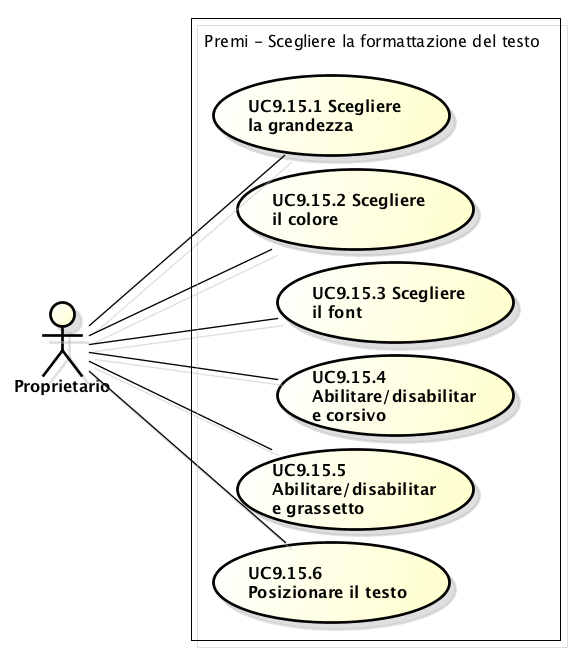
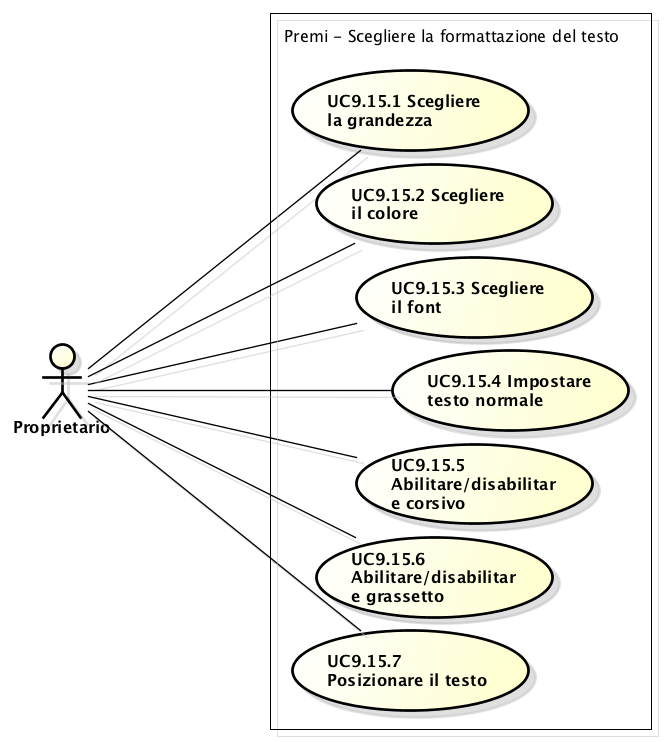
revisione documento. Corretti UC4*, UC6*, UC7*, UC9*.

Changed region(s): [[0.0, 0.0, 0.9846, 0.994], [0.2462, 0.6325, 0.2769, 0.6627]]

diff --git a/esterni/analisi_dei_requisiti/sections/tabella_requisiti_funzionali.tex b/esterni/analisi_dei_requisiti/sections/tabella_requisiti_funzionali.tex
@@ -62,20 +62,20 @@
 			\midrule
 
 			R[OBB][F]4.1 & Il sistema deve permettere all'utente l'apertura di una presentazione & UC4.1, Capitolato \\ \midrule
-			R[OBB][F]4.1.1 & Il sistema deve permettere all'utente autenticato la visualizzazione di una presentazione in modalità presentatore & UC4.1.1, Capitolato \\ \midrule
-			R[OBB][F]4.1.1.1 & Il sistema deve poter visualizzare la slide corrente per il presentatore & UC4.1.1 \\ \midrule
-			R[OBB][F]4.1.1.2 & Il sistema deve poter visualizzare le slide successive per il presentatore & UC4.1.1, Interna \\ \midrule
-			R[OBB][F]4.1.1.3 & Il sistema deve poter visualizzare le note della slide per il presentatore & UC4.1.1, Interna \\ \midrule
-			R[OBB][F]4.1.1.4 & Il sistema deve poter visualizzare il tempo trascorso per il presentatore & UC4.1.1, Interna \\ \midrule
-			R[OBB][F]4.1.2 & Il sistema deve permettere all'utente autenticato la visualizzazione di una presentazione in modalità ascoltatore & UC4.1.2, Capitolato \\ \midrule
-			R[OBB][F]4.1.2.1 & Il sistema deve poter visualizzare la slide corrente per l'ascoltatore & UC4.1.2, Interna \\ \midrule
-			R[OBB][F]4.1.3 & Il sistema deve poter visualizzare i comandi di navigazione per l'ascoltatore & UC4.1.3, Interna \\ \midrule
+			R[OBB][F]4.1.1 & Il sistema deve permettere all'utente autenticato la visualizzazione di una presentazione in modalità presentatore & UC4.3, Capitolato \\ \midrule
+			R[OBB][F]4.1.1.1 & Il sistema deve poter visualizzare la slide corrente per il presentatore & UC4.3 \\ \midrule
+			R[OBB][F]4.1.1.2 & Il sistema deve poter visualizzare le slide successive per il presentatore & UC4.3, Interna \\ \midrule
+			R[OBB][F]4.1.1.3 & Il sistema deve poter visualizzare le note della slide per il presentatore & UC4.3, Interna \\ \midrule
+			R[OBB][F]4.1.1.4 & Il sistema deve poter visualizzare il tempo trascorso per il presentatore & UC4.3, Interna \\ \midrule
+			R[OBB][F]4.1.2 & Il sistema deve permettere all'utente autenticato la visualizzazione di una presentazione in modalità ascoltatore & UC4.4, Capitolato \\ \midrule
+			R[OBB][F]4.1.2.1 & Il sistema deve poter visualizzare la slide corrente per l'ascoltatore & UC4.4, Interna \\ \midrule
+			R[OBB][F]4.1.3 & Il sistema deve poter visualizzare i comandi di navigazione per l'ascoltatore & UC4.1.1, Interna \\ \midrule
 			R[OPZ][F]4.2 & Il sistema deve permettere all'utente la visualizzazione di un'\gls{infografica} & UC4.2, Verbale4 \\ \midrule
 			R[OBB][F]5 & Il sistema deve permettere all'utente di generare il PDF del progetto & UC5, Capitolato \\ \midrule
 			R[OBB][F]5.1 & Il sistema deve permettere all'utente di generare il PDF della presentazione & UC5.1, Capitolato \\ \midrule
 			R[OBB][F]5.2 & Il sistema deve permettere all'utente di generare il PDF dell'\gls{infografica} & UC5.2, Verbale4, Interna \\ \midrule
 			R[OBB][F]6 & L'utente deve poter esportare un pacchetto stand-alone per la visualizzazione offline & UC6 \\ \midrule
-			R[OBB][F]6.1 & L'utente deve poter scegliere il percorso per il salvataggio del pacchetto & UC6.2 \\ \midrule
+			R[OBB][F]6.1 & L'utente deve poter scegliere il percorso per il salvataggio del pacchetto & UC6.1 \\ \midrule
 			R[OBB][F]7 & L'utente deve poter creare un nuovo progetto & UC7, Capitolato \\ \midrule
 			R[OBB][F]7.1 & L'utente deve poter inserire il titolo del progetto & UC7.1, Capitolato \\ \midrule
 
@@ -151,9 +151,10 @@
 			R[OBB][F]9.15.1 & Il proprietario deve poter cambiare la grandezza del testo & UC9.15.1, Capitolato, Verbale2 \\ \midrule
 			R[OBB][F]9.15.2 & Il proprietario deve poter cambiare il colore del testo & UC9.15.2, Capitolato, Verbale2 \\ \midrule
 			R[OBB][F]9.15.3 & Il proprietario deve poter cambiare il \gls{font} del testo & UC9.15.3, Capitolato, Verbale2 \\ \midrule
-			R[OBB][F]9.15.4 & Il proprietario deve poter abilitare/disabilitare il corsivo del testo & UC9.15.4, Capitolato, Verbale2 \\ \midrule
-			R[OBB][F]9.15.5 & Il proprietario deve poter abilitare/disabilitare il grassetto del testo & UC9.15.5, Capitolato, Verbale2 \\ \midrule
-			R[OBB][F]9.15.6 & Il proprietario deve poter cambiare la posizione del testo all'interno della \gls{slide} & UC9.15.6, Capitolato, Verbale2 \\ \midrule
+			R[OBB][F]9.15.4 & Il proprietario deve poter impostare lo stile del testo normale & UC9.15.4, Capitolato, Verbale2 \\ \midrule
+			R[OBB][F]9.15.5 & Il proprietario deve poter impostare lo stile del testo corsivo & UC9.15.5, Capitolato, Verbale2 \\ \midrule
+			R[OBB][F]9.15.6 & Il proprietario deve poter impostare lo stile del testo grassetto & UC9.15.6, Capitolato, Verbale2 \\ \midrule
+			R[OBB][F]9.15.7 & Il proprietario deve poter cambiare la posizione del testo all'interno della \gls{slide} & UC9.15.7, Capitolato, Verbale2 \\ \midrule
 			R[OBB][F]9.16 & Il proprietario deve poter modificare una tabella & UC9.16 \\ \midrule
 			R[OBB][F]9.16.1 & Il proprietario deve poter cambiare il contenuto di una cella della tabella & UC9.16.1 \\ \midrule
 			R[OBB][F]9.16.2 & Il proprietario deve poter aggiungere righe alla tabella & UC9.16.2 \\ \midrule

diff --git a/esterni/analisi_dei_requisiti/sections/casi_d_uso_4.tex b/esterni/analisi_dei_requisiti/sections/casi_d_uso_4.tex
@@ -1,7 +1,7 @@
 \subsection{Caso d'uso UC4: Visualizzazione}
 \begin{figure}[h] 
 	\centering 
-	\includegraphics[scale=0.45] {img/UC4.png}
+	\includegraphics[width=0.7\textwidth] {img/UC4.png}
 	\caption{UC4 - Visualizzazione} 
 \end{figure}
 
@@ -12,18 +12,14 @@
 	\item \textbf{Flusso principale degli eventi:}
 	\begin{enumerate}
 		\item L'utente sceglie di visualizzare una presentazione [UC4.1];
-		\item L'utente sceglie di visualizzare un'\gls{infografica} [UC4.2].
+		\item L'utente sceglie di visualizzare un'\gls{infografica} [UC4.2];
+		\item L'utente sceglie di visualizzare la presentazione come presentatore [UC4.3];
+		\item L'utente sceglie di visualizzare la presentazione come ascoltatore [UC4.4].
 	\end{enumerate}
 	\item \textbf{Postcondizione:} Il sistema mostra all'utente la schermata di visualizzazione di una presentazione o di un'\gls{infografica} a seconda di cosa è stato scelto.
 \end{itemize}
 
 \subsection{Caso d'uso UC4.1: Visualizzazione di una presentazione}
-\begin{figure}[h] 
-	\centering 
-	\includegraphics[scale=0.45] {img/UC4.1.png}
-	\caption{UC4.1 - Visualizzazione di una presentazione} 
-\end{figure}
-
 \begin{itemize}
 	\item \textbf{Attori:} Utente non autenticato, utente autenticato;
 	\item \textbf{Scopo e descrizione:} La visualizzazione di una presentazione permette di scorrere le \gls{slide}. In generale, la presentazione segue un flusso principale, da sinistra a destra, e un flusso secondario, dall'alto verso il basso.\\
@@ -32,30 +28,12 @@
 	\item \textbf{Precondizione:} L'utente ha scelto di visualizzare una presentazione esistente;
 	\item \textbf{Flusso principale degli eventi:}
 	\begin{enumerate}
-		\item L'utente sceglie di visualizzare la presentazione come presentatore [UC4.1.1];
-		\item L'utente sceglie di visualizzare la presentazione come ascoltatore [UC4.1.2];
-		\item L'utente si sposta tra le \gls{slide} [UC4.1.3];
+		\item L'utente si sposta tra le \gls{slide} [UC4.1.1];
 	\end{enumerate}
 	\item \textbf{Postcondizione:} Il sistema mostra all'utente la schermata di visualizzazione di una presentazione con le impostazioni scelte.
 \end{itemize}
 
-\subsection{Caso d'uso UC4.1.1: Visualizzare una presentazione come presentatore}
-\begin{itemize}
-	\item \textbf{Attori:} Utente non autenticato, utente autenticato;
-	\item \textbf{Scopo e descrizione:} L'utente ha scelto di visualizzare la presentazione come presentatore e il sistema mostra la presentazione con il supporto visivo dedicato al presentatore;
-	\item \textbf{Precondizione:} L'utente ha scelto di visualizzare la presentazione come presentatore;
-	\item \textbf{Postcondizione:} Il sistema avvia la presentazione con il supporto visivo dedicato al presentatore.
-\end{itemize}
-
-\subsection{Caso d'uso UC4.1.2: Visualizzare una presentazione come ascoltatore}
-\begin{itemize}
-	\item \textbf{Attori:} Utente non autenticato, utente autenticato;
-	\item \textbf{Scopo e descrizione:} L'utente ha scelto di visualizzare la presentazione come ascoltatore e il sistema mostra la presentazione selezionata;
-	\item \textbf{Precondizione:} L'utente ha scelto di visualizzare la presentazione come ascoltatore;
-	\item \textbf{Postcondizione:} Il sistema avvia la presentazione.
-\end{itemize}
-
-\subsection{Caso d'uso UC4.1.3: Spostarsi tra le slide}
+\subsection{Caso d'uso UC4.1.1: Spostarsi tra le slide}
 \begin{itemize}
 	\item \textbf{Attori:} Utente non autenticato, utente autenticato;
 	\item \textbf{Scopo e descrizione:} L'utente sta visualizzando una presentazione e vuole cambiare \gls{slide}. Si può muovere nella quattro direzioni così da procedere sia nel flusso principale che in quello secondario;
@@ -72,3 +50,20 @@
 	\item \textbf{Postcondizione:} Il sistema mostra all'utente la schermata di visualizzazione dell'\gls{infografica}.
 \end{itemize}
 
+
+\subsection{Caso d'uso UC4.3: Visualizzare una presentazione come presentatore}
+\begin{itemize}
+	\item \textbf{Attori:} Utente non autenticato, utente autenticato;
+	\item \textbf{Scopo e descrizione:} L'utente ha scelto di visualizzare la presentazione come presentatore e il sistema mostra la presentazione con il supporto visivo dedicato al presentatore;
+	\item \textbf{Precondizione:} L'utente ha scelto di visualizzare la presentazione come presentatore;
+	\item \textbf{Postcondizione:} Il sistema avvia la presentazione con il supporto visivo dedicato al presentatore.
+\end{itemize}
+
+
+\subsection{Caso d'uso UC4.4: Visualizzare una presentazione come ascoltatore}
+\begin{itemize}
+	\item \textbf{Attori:} Utente non autenticato, utente autenticato;
+	\item \textbf{Scopo e descrizione:} L'utente ha scelto di visualizzare la presentazione come ascoltatore e il sistema mostra la presentazione selezionata;
+	\item \textbf{Precondizione:} L'utente ha scelto di visualizzare la presentazione come ascoltatore;
+	\item \textbf{Postcondizione:} Il sistema avvia la presentazione.
+\end{itemize}

diff --git a/esterni/analisi_dei_requisiti/sections/casi_d_uso_9.tex b/esterni/analisi_dei_requisiti/sections/casi_d_uso_9.tex
@@ -198,7 +198,7 @@
 	\subsection{Caso d'uso UC9.8.1: Scegliere la tipologia del grafico}
 	\begin{itemize}
 		\item \textbf{Attori:} Proprietario;
-		\item \textbf{Scopo e descrizione:} L'utente deve scegliere il tipo di grafico da inserire;
+		\item \textbf{Scopo e descrizione:} L'utente deve scegliere il tipo di grafico da inserire tra istogramma, torta e linea;
 		\item \textbf{Precondizione:} La finestra di dialogo per la scelta del tipo di grafico è aperta;
 		\item \textbf{Postcondizione:} Il sistema ha registrato la scelta dell'utente.
 	\end{itemize}
@@ -282,9 +282,10 @@
 		\item L'utente può cambiare la grandezza del testo [UC9.15.1];
 		\item L'utente può cambiare il colore del testo [UC9.15.2];
 		\item L'utente può cambiare il \gls{font} del testo [UC9.15.3];
-		\item L'utente può abilitare o disabilitare il testo in corsivo [UC9.15.4];
-		\item L'utente può abilitare o disabilitare il testo in grassetto [UC9.15.5];
-		\item L'utente può spostare il testo in una nuova posizione [UC9.15.6].
+		\item L'utente può impostare il testo normale [UC9.15.4];
+		\item L'utente può impostare il testo in corsivo [UC9.15.5];
+		\item L'utente può impostare il testo in grassetto [UC9.15.6];
+		\item L'utente può spostare il testo in una nuova posizione [UC9.15.7].
 	\end{enumerate}
 	\item \textbf{Postcondizione:} Il sistema ha apportato le modifiche scelte all'elemento di testo selezionato.
 \end{itemize}
@@ -313,29 +314,38 @@
 	\item \textbf{Postcondizione:} Il testo ha cambiato \gls{font} secondo la scelta dell'utente.
 \end{itemize}
 
-\subsection{Caso d'uso UC9.15.4: Abilitare/disabilitare corsivo}
+\subsection{Caso d'uso UC9.15.4: Impostare stile normale}
 \begin{itemize}
 	\item \textbf{Attori:} Proprietario;
-	\item \textbf{Scopo e descrizione:} L'utente può abilitare o disabilitare la scrittura in corsivo;
+	\item \textbf{Scopo e descrizione:} L'utente può impostare lo stile del testo normale;
 	\item \textbf{Precondizione:} Il testo da modificare è selezionato;
 	\item \textbf{Postcondizione:} Il testo è stato modificato secondo la scelta dell'utente.
 \end{itemize}
 
-\subsection{Caso d'uso UC9.15.5: Abilitare/Disabilitare grassetto}
+\subsection{Caso d'uso UC9.15.5: Impostare stile corsivo}
 \begin{itemize}
 	\item \textbf{Attori:} Proprietario;
-	\item \textbf{Scopo e descrizione:} L'utente può abilitare o disabilitare la scrittura in grassetto;
+	\item \textbf{Scopo e descrizione:} L'utente può impostare la scrittura in corsivo;
 	\item \textbf{Precondizione:} Il testo da modificare è selezionato;
 	\item \textbf{Postcondizione:} Il testo è stato modificato secondo la scelta dell'utente.
 \end{itemize}
 
-\subsection{Caso d'uso UC9.15.6: Posizionare il testo}
+\subsection{Caso d'uso UC9.15.6: Impostare stile grassetto}
+\begin{itemize}
+	\item \textbf{Attori:} Proprietario;
+	\item \textbf{Scopo e descrizione:} L'utente può impostare la scrittura in grassetto;
+	\item \textbf{Precondizione:} Il testo da modificare è selezionato;
+	\item \textbf{Postcondizione:} Il testo è stato modificato secondo la scelta dell'utente.
+\end{itemize}
+
+\subsection{Caso d'uso UC9.15.7: Posizionare il testo}
 \begin{itemize}
 	\item \textbf{Attori:} Proprietario;
 	\item \textbf{Scopo e descrizione:} L'utente può allineare il testo in una nuova posizione;
 	\item \textbf{Precondizione:} Il testo da modificare è selezionato;
 	\item \textbf{Postcondizione:} Il testo è stata allineato secondo la scelta dell'utente.
 \end{itemize}
+
 
 \newpage
 \subsection{Caso d'uso UC9.16: Modificare una tabella}

diff --git a/esterni/analisi_dei_requisiti/sections/casi_d_uso_6.tex b/esterni/analisi_dei_requisiti/sections/casi_d_uso_6.tex
@@ -11,23 +11,12 @@
 		\item \textbf{Precondizione:} Il sistema è in attesa che l'utente selezioni la funzione esporta;
 		\item \textbf{Flusso principale degli eventi:}
 		\begin{enumerate}
-			\item L'utente seleziona dal menù la funzione esporta [UC6.1];
-			\item L'utente salva il pacchetto in locale [UC6.2].
+			\item L'utente salva il pacchetto in locale [UC6.1].
 		\end{enumerate}
 		\item \textbf{Postcondizione:} L'utente ha esportato il progetto e l'ha salvato in locale.
 	\end{itemize}
 
-
-\subsection{Caso d'uso UC6.1: Selezionare la funzione esporta}
-	\begin{itemize}
-		\item \textbf{Attori:} Utente autenticato;
-		\item \textbf{Scopo e descrizione:} L'utente seleziona dall'apposito menù la funzione di esportazione per esportare il progetto;
-		\item \textbf{Precondizione:} L'utente ha un progetto aperto e il sistema è in attesa che l'utente selezioni la funzione esporta;
-		\item \textbf{Postcondizione:} Il sistema inizia la procedura di esportazione preparando il pacchetto.
-	\end{itemize}
-
-
-\subsection{Caso d'uso UC6.2: Salvataggio del pacchetto in locale}
+\subsection{Caso d'uso UC6.1: Salvataggio del pacchetto in locale}
 	\begin{itemize}
 		\item \textbf{Attori:} Utente autenticato;
 		\item \textbf{Scopo e descrizione:} L'utente deve salvare il pacchetto del progetto in locale per poterlo visualizzare in locale senza connessione a internet. Il pacchetto contiene la struttura del server e del programma necessaria per la visualizzazione corretta della presentazione e dell'\gls{infografica} anche in assenza della connessione diretta al server stesso.

diff --git a/esterni/analisi_dei_requisiti/sections/casi_d_uso_7.tex b/esterni/analisi_dei_requisiti/sections/casi_d_uso_7.tex
@@ -6,7 +6,7 @@
 \end{figure}
 
 \begin{itemize}
-	\item \textbf{Attori:} Utente autenticato, Proprietario;
+	\item \textbf{Attori:} Proprietario;
 	\item \textbf{Scopo e descrizione:} L'utente vuole creare un nuovo progetto. Ha la possibilità di decidere il titolo del progetto e il \gls{template} con cui crearlo. Successivamente passerà alla fase di modifica.
 	\item \textbf{Precondizione:} L'utente deve aver eseguito l'accesso al sistema;
 	\item \textbf{Flusso principale degli eventi:}
@@ -20,7 +20,7 @@
 
 \subsection{Caso d'uso UC7.1: Scegliere il titolo}
 \begin{itemize}
-	\item \textbf{Attori:} Utente autenticato, Proprietario;
+	\item \textbf{Attori:} Proprietario;
 	\item \textbf{Scopo e descrizione:} L'utente sceglie il titolo da dare al progetto;
 	\item \textbf{Precondizione:} L'utente ha deciso di creare un nuovo progetto;
 	\item \textbf{Postcondizione:} Il sistema registra il titolo inserito dall'utente.
@@ -29,7 +29,7 @@
 
 \subsection{Caso d'uso UC7.2: Scegliere un template}
 \begin{itemize}
-	\item \textbf{Attori:} Utente autenticato, Proprietario;
+	\item \textbf{Attori:} Proprietario;
 	\item \textbf{Scopo e descrizione:} L'utente sceglie un \gls{template} da utilizzare per il proprio progetto;
 	\item \textbf{Precondizione:} L'utente ha inserito il titolo del progetto;
 	\item \textbf{Postcondizione:} Il sistema crea una presentazione con il titolo e il \gls{template} scelti e entra nella modalità di modifica.

diff --git a/esterni/analisi_dei_requisiti/sections/tabella_tracciamento_fonti_requisiti.tex b/esterni/analisi_dei_requisiti/sections/tabella_tracciamento_fonti_requisiti.tex
@@ -47,10 +47,10 @@
 			UC3.3 & R[OBB][F]3.3 \\ \midrule
 			UC4 & R[OBB][F]4 \\ \midrule
 			UC4.1 & R[OBB][F]4.1 \\ \midrule
-			UC4.1.1 & R[OBB][F]4.1.1 ; R[OBB][F]4.1.1.1 ; R[OBB][F]4.1.1.2 ; R[OBB][F]4.1.1.3 ; R[OBB][F]4.1.1.4 ; R[OBB][F]4.1.1.5 \\ \midrule
-			UC4.1.2 & R[OBB][F]4.1.2 ; R[OBB][F]4.1.2.1 \\ \midrule
-			UC4.1.3 & R[OBB][F]4.1.3 \\ \midrule
+			UC4.1.1 & R[OBB][F]4.1.3 \\ \midrule
 			UC4.2 & R[OPZ][F]4.2 \\ \midrule
+			UC4.3 & R[OBB][F]4.1.1 ; R[OBB][F]4.1.1.1 ; R[OBB][F]4.1.1.2 ; R[OBB][F]4.1.1.3 ; R[OBB][F]4.1.1.4 ; R[OBB][F]4.1.1.5 \\ \midrule
+			UC4.4 & R[OBB][F]4.1.2 ; R[OBB][F]4.1.2.1 \\ \midrule
 
 		\end{tabular}
 	\end{table}
@@ -65,7 +65,7 @@
 			UC5.1 & R[OBB][F]5.1 \\ \midrule
 			UC5.2 & R[OBB][F]5.2 \\ \midrule
 			UC6 & R[OBB][F]6 \\ \midrule
-			UC6.2 & R[OBB][F]6.1 \\ \midrule
+			UC6.1 & R[OBB][F]6.1 \\ \midrule
 			UC7 & R[OBB][F]7 \\ \midrule
 			UC7.1 & R[OBB][F]7.1 \\ \midrule
 			UC7.2 & R[OBB][F]7.2 \\ \midrule
@@ -116,6 +116,7 @@
 			UC9.15.4 & R[OBB][F]9.15.4 \\ \midrule
 			UC9.15.5 & R[OBB][F]9.15.5 \\ \midrule
 			UC9.15.6 & R[OBB][F]9.15.6 \\ \midrule
+			UC9.15.7 & R[OBB][F]9.15.7 \\ \midrule
 			UC9.16 & R[OBB][F]9.16 \\ \midrule
 			UC9.16.1 & R[OBB][F]9.16.1 \\ \midrule
 			UC9.16.2 & R[OBB][F]9.16.2 \\ \midrule

diff --git a/esterni/analisi_dei_requisiti/sections/tabella_requisiti_qualita.tex b/esterni/analisi_dei_requisiti/sections/tabella_requisiti_qualita.tex
@@ -8,7 +8,7 @@
 		\textbf{Requisito} & \textbf{Descrizione} & \textbf{Fonti} \\
 		
 		\midrule
-		R[OBB][Q]-1 & Il sistema viene sviluppato secondo le \textit{Norme di Progetto v1.0.0} & Interna \\
+		R[OBB][Q]-1 & Il sistema viene sviluppato secondo le \textit{Norme di Progetto v2.0.0} & Interna \\
 		
 		\bottomrule
 
